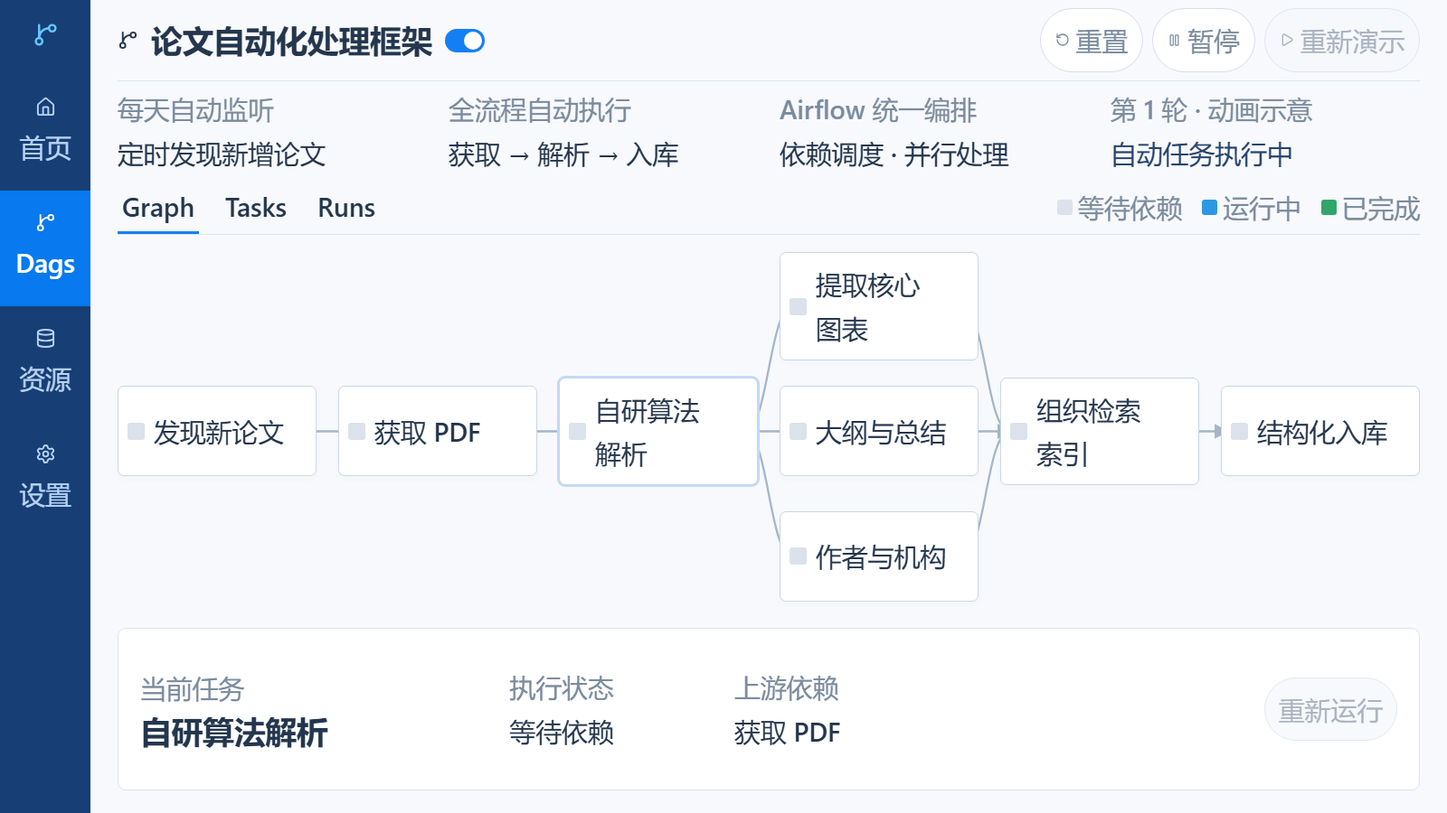
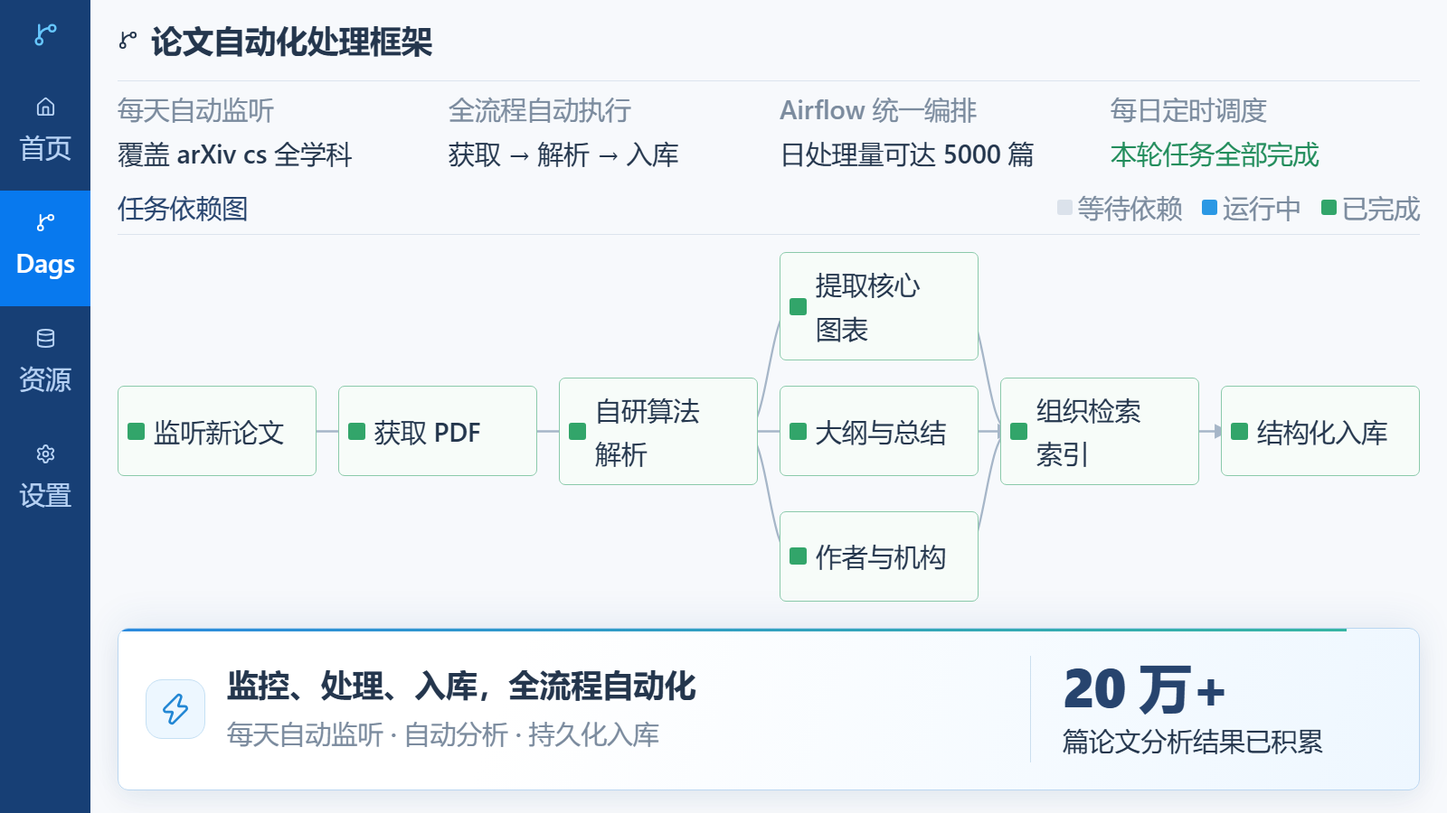
261031

diff --git a/modules/Research-Foundation/pages/AirflowControlPage/AirflowControlPage.tsx b/modules/Research-Foundation/pages/AirflowControlPage/AirflowControlPage.tsx
@@ -1,10 +1,10 @@
 import { useEffect, useState } from 'react';
-import { Check, Database, GitBranch, Home, Pause, Play, RotateCcw, Search, Settings } from 'lucide-react';
-import { Button, Typography } from '../../../shared/react';
+import { Database, GitBranch, Home, Settings, Zap } from 'lucide-react';
+import { Typography } from '../../../shared/react';
 import './AirflowControlPage.css';
 
 const tasks = [
-  {id:'check_arxiv',label:'发现新论文',deps:[],ticks:2,col:1,row:2},
+  {id:'check_arxiv',label:'监听新论文',deps:[],ticks:2,col:1,row:2},
   {id:'fetch_pdfs',label:'获取 PDF',deps:['check_arxiv'],ticks:2,col:2,row:2},
   {id:'parse_pdfs',label:'自研算法解析',deps:['fetch_pdfs'],ticks:3,col:3,row:2},
   {id:'extract_figures',label:'提取核心图表',deps:['parse_pdfs'],ticks:3,col:4,row:1},
@@ -17,10 +17,8 @@ type Status='queued'|'running'|'success';
 type TaskState={status:Status;tick:number};
 const initial=()=>Object.fromEntries(tasks.map(t=>[t.id,{status:'queued' as Status,tick:0}]));
 const statusText={queued:'等待依赖',running:'运行中',success:'已完成'};
-export function AirflowControlPage(){
- const [states,setStates]=useState<Record<string,TaskState>>(initial),[running,setRunning]=useState(true),[started,setStarted]=useState(true);
- const [selected,setSelected]=useState('parse_pdfs'),[tab,setTab]=useState('Graph'),[scheduled,setScheduled]=useState(true);
- const [cycle,setCycle]=useState(1);
+export function AirflowControlPage({onComplete}:{onComplete?:()=>void}){
+ const [states,setStates]=useState<Record<string,TaskState>>(initial),[running,setRunning]=useState(false),[started,setStarted]=useState(false),[showBanner,setShowBanner]=useState(false);
  useEffect(()=>{
   if(!running)return;
   const timer=window.setInterval(()=>{
@@ -29,43 +27,32 @@ export function AirflowControlPage(){
     const next={...previous};
     for(const task of tasks){
      const current=previous[task.id];
-     if(current.status==='running'){const tick=current.tick+1;next[task.id]={tick,status:tick>=task.ticks?'success':'running'};}
+     if(current.status==='running'){const tick=current.tick+1;next[task.id]={tick,status:tick>=task.ticks?'success':'running'}}
      else if(current.status==='queued'&&task.deps.every(id=>previous[id].status==='success'))next[task.id]={tick:0,status:'running'};
     }
     return next;
    });
-  },350);
+  },120);
   return()=>clearInterval(timer);
  },[running]);
  const finished=tasks.every(t=>states[t.id].status==='success');
- useEffect(()=>{
-  if(!finished)return;
-  setRunning(false);
-  if(!scheduled)return;
-  const nextCycle=window.setTimeout(()=>{setCycle(n=>n+1);setStates(initial());setStarted(true);setRunning(true)},3500);
-  return()=>clearTimeout(nextCycle);
- },[finished,scheduled]);
- function trigger(){setStates(initial());setStarted(true);setRunning(true)}
- function clear(){setRunning(false);setStarted(false);setStates(initial())}
- function rerun(){
-  const affected=new Set([selected]);
-  for(const task of tasks)if(task.deps.some(id=>affected.has(id)))affected.add(task.id);
-  setStates(previous=>Object.fromEntries(tasks.map(t=>[t.id,affected.has(t.id)?{status:'queued',tick:0}:previous[t.id]])));
-  setStarted(true);setRunning(true);
+ useEffect(()=>{if(finished)setRunning(false)},[finished]);
+ function advance(){
+  if(running)return;
+  if(!started){setStarted(true);setRunning(true)}
+  else if(finished&&!showBanner)setShowBanner(true);
+  else if(showBanner)onComplete?.();
  }
- const current=tasks.find(t=>t.id===selected)!;
- return <div className="rf-page rf-airflow-control" data-running={running}>
+ const current=tasks.find(t=>states[t.id].status==='running')??(finished?tasks[tasks.length-1]:tasks[0]);
+ return <div className={`rf-page rf-airflow-control rfc-recording ${showBanner?'has-banner':''}`} data-running={running} data-phase={showBanner?'banner':finished?'complete':running?'running':'ready'} onClick={event=>{if(event.button===0){event.stopPropagation();advance()}}} aria-label="左键逐步播放自动化处理流程和累计成果">
   <aside className="rfc-sidebar"><div className="rfc-logo"><GitBranch size={29}/></div>{[[Home,'首页'],[GitBranch,'Dags'],[Database,'资源'],[Settings,'设置']].map(([Icon,label])=>{const I=Icon as typeof Home;return <div className={label==='Dags'?'active':''} key={String(label)}><I size={23}/><Typography variant="body" tone="inherit">{String(label)}</Typography></div>})}</aside>
-  <aside className="rfc-history"><Typography variant="body" tone="muted">DAG</Typography><Typography variant="body">master_daily_pipeline</Typography><div className="rfc-history-bars">{[42,60,37,72,58,85,62,75].map((h,i)=><i key={i} style={{height:h}}/>)}</div><div className="rfc-task-list">{tasks.map(task=><button className={selected===task.id?'selected':''} key={task.id} onClick={()=>setSelected(task.id)} aria-label={`查看任务 ${task.label}`}><Typography variant="body">{task.id}</Typography><span className={`rfc-state ${states[task.id].status}`}>{states[task.id].status==='success'?<Check size={12}/>:null}</span></button>)}</div><Typography className="rfc-local-note" variant="body" tone="muted">本地流程模拟</Typography></aside>
-  <main className="rfc-main"><header className="rfc-header"><GitBranch size={23}/><Typography variant="h3">论文自动化处理框架</Typography><button className={`rfc-toggle ${scheduled?'enabled':''}`} aria-label="切换每日调度" aria-pressed={scheduled} onClick={()=>setScheduled(!scheduled)}><i/></button><div className="rfc-actions"><Button onClick={clear} aria-label="清空运行状态"><RotateCcw size={16}/> 重置</Button>{started&&!finished&&<Button onClick={()=>setRunning(!running)} aria-label={running?'暂停任务运行':'继续任务运行'}>{running?<Pause size={15}/>:<Play size={15}/>} {running?'暂停':'继续'}</Button>}<Button variant="primary" disabled={running} onClick={trigger} aria-label="触发流程运行"><Play size={16}/> 重新演示</Button></div></header>
-   <div className="rfc-meta"><div><Typography variant="body" tone="muted">每天自动监听</Typography><Typography variant="body">定时发现新增论文</Typography></div><div><Typography variant="body" tone="muted">全流程自动执行</Typography><Typography variant="body">获取 → 解析 → 入库</Typography></div><div><Typography variant="body" tone="muted">Airflow 统一编排</Typography><Typography variant="body">依赖调度 · 并行处理</Typography></div><div><Typography variant="body" tone="muted">第 {cycle} 轮 · 动画示意</Typography><Typography variant="body" tone={finished?'success':'accent'}>{finished?'本轮完成，等待下次调度':running?'自动任务执行中':started?'已暂停':'等待启动'}</Typography></div></div>
-   <nav className="rfc-tabs">{['Graph','Tasks','Runs'].map(t=><button key={t} className={tab===t?'active':''} onClick={()=>setTab(t)}><Typography variant="body">{t}</Typography></button>)}<div className="rfc-legend">{(['queued','running','success'] as const).map(s=><span key={s}><i className={`rfc-state ${s}`}/><Typography variant="body" tone="muted">{statusText[s]}</Typography></span>)}</div></nav>
-   {tab==='Graph'?<div className="rfc-graph"><svg viewBox="0 0 1080 300" preserveAspectRatio="none" aria-hidden="true"><defs><marker id="rfc-arrow" markerWidth="7" markerHeight="7" refX="6" refY="3.5" orient="auto"><path d="M0 0 L7 3.5 L0 7" fill="#a6b6c8"/></marker></defs>{[[160,150,200,150],[340,150,380,150],[520,150,560,50],[520,150,560,150],[520,150,560,250],[700,50,740,150],[700,150,740,150],[700,250,740,150],[880,150,920,150]].map(([x1,y1,x2,y2],i)=><path key={i} d={`M${x1} ${y1} C${(x1+x2)/2} ${y1},${(x1+x2)/2} ${y2},${x2} ${y2}`} markerEnd="url(#rfc-arrow)"/>)}</svg>{tasks.map(task=><button key={task.id} className={`rfc-node ${states[task.id].status} ${selected===task.id?'selected':''}`} style={{gridColumn:task.col,gridRow:task.row}} onClick={()=>setSelected(task.id)} aria-label={`选择节点 ${task.label}`}><span className={`rfc-state ${states[task.id].status}`}/><Typography variant="body">{task.label}</Typography></button>)}</div>:tab==='Tasks'?<div className="rfc-table">{tasks.map(task=><button key={task.id} onClick={()=>setSelected(task.id)}><Typography variant="body">{task.id}</Typography><Typography variant="body">{task.label}</Typography><Typography variant="body">{statusText[states[task.id].status]}</Typography></button>)}</div>:<div className="rfc-runs"><Typography variant="h3">{started?'每日自动调度任务':'等待自动调度'}</Typography><Typography variant="body">{finished?'本次任务已全部完成':running?'任务按依赖顺序执行':started?'本次运行已暂停':'自动监听新增论文并启动流水线'}</Typography></div>}
-   <section className="rfc-details"><div><Typography variant="body" tone="muted">当前任务</Typography><Typography variant="h3">{current.label}</Typography></div><div><Typography variant="body" tone="muted">执行状态</Typography><Typography variant="body">{statusText[states[selected].status]}</Typography></div><div><Typography variant="body" tone="muted">上游依赖</Typography><Typography variant="body">{current.deps.length>1?current.deps.length+' 个上游任务':current.deps.length?tasks.find(task=>task.id===current.deps[0])!.label:'无上游依赖'}</Typography></div><Button onClick={rerun} disabled={running||!started} aria-label="重新运行所选任务">重新运行</Button></section>
+  <main className="rfc-main"><header className="rfc-header"><GitBranch size={23}/><Typography variant="h3">论文自动化处理框架</Typography></header>
+   <div className="rfc-meta"><div><Typography variant="body" tone="muted">每天自动监听</Typography><Typography variant="body">覆盖 arXiv cs 全学科</Typography></div><div><Typography variant="body" tone="muted">全流程自动执行</Typography><Typography variant="body">获取 → 解析 → 入库</Typography></div><div><Typography variant="body" tone="muted">Airflow 统一编排</Typography><Typography variant="body">日处理量可达 5000 篇</Typography></div><div><Typography variant="body" tone="muted">每日定时调度</Typography><Typography variant="body" tone={finished?'success':'accent'}>{finished?'本轮任务全部完成':running?'自动任务执行中':'持续监控新增论文'}</Typography></div></div>
+   <div className="rfc-tabs"><Typography variant="body" tone="accent">任务依赖图</Typography><div className="rfc-legend">{(['queued','running','success'] as const).map(s=><span key={s}><i className={`rfc-state ${s}`}/><Typography variant="body" tone="muted">{statusText[s]}</Typography></span>)}</div></div>
+   <div className="rfc-graph"><svg viewBox="0 0 1080 300" preserveAspectRatio="none" aria-hidden="true"><defs><marker id="rfc-arrow" markerWidth="7" markerHeight="7" refX="6" refY="3.5" orient="auto"><path d="M0 0 L7 3.5 L0 7" fill="#a6b6c8"/></marker></defs>{[[160,150,200,150],[340,150,380,150],[520,150,560,50],[520,150,560,150],[520,150,560,250],[700,50,740,150],[700,150,740,150],[700,250,740,150],[880,150,920,150]].map(([x1,y1,x2,y2],i)=><path key={i} d={`M${x1} ${y1} C${(x1+x2)/2} ${y1},${(x1+x2)/2} ${y2},${x2} ${y2}`} markerEnd="url(#rfc-arrow)"/>)}</svg>{tasks.map(task=><div key={task.id} className={`rfc-node ${states[task.id].status}`} style={{gridColumn:task.col,gridRow:task.row}}><span className={`rfc-state ${states[task.id].status}`}/><Typography variant="body">{task.label}</Typography></div>)}</div>
+   <section className="rfc-details"><div><Typography variant="body" tone="muted">当前任务</Typography><Typography variant="h3">{current.label}</Typography></div><div><Typography variant="body" tone="muted">执行状态</Typography><Typography variant="body">{statusText[states[current.id].status]}</Typography></div><div><Typography variant="body" tone="muted">上游依赖</Typography><Typography variant="body">{current.deps.length>1?current.deps.length+' 个上游任务':current.deps.length?tasks.find(task=>task.id===current.deps[0])!.label:'无上游依赖'}</Typography></div></section>
   </main>
+  {showBanner&&<aside className="rfc-completion-banner" role="status" aria-label="自动化流程与累计成果"><div className="rfc-banner-message"><div className="rfc-banner-symbol"><Zap size={38} strokeWidth={1.7}/></div><div><Typography variant="h3">监控、处理、入库，全流程自动化</Typography><Typography variant="body" tone="muted">每天自动监听 · 自动分析 · 持久化入库</Typography></div></div><div className="rfc-banner-result"><Typography variant="display" tone="accent">20 万+</Typography><Typography variant="body">篇论文分析结果已积累</Typography></div></aside>}
  </div>;
 }
-
-
-
 

diff --git a/modules/Research-Foundation/pages/ResearchMethodsPage/ResearchMethodsPage.tsx b/modules/Research-Foundation/pages/ResearchMethodsPage/ResearchMethodsPage.tsx
@@ -1,80 +1,65 @@
-import { useEffect, useRef, useState } from 'react';
-import { ArrowUpRight, ChevronLeft, ChevronRight, List, Pause, Play, RotateCcw, X } from 'lucide-react';
-import { Button, Typography, moduleAssetUrl } from '../../../shared/react';
+import { useEffect, useRef, useState, type CSSProperties } from 'react';
+import { Typography, moduleAssetUrl } from '../../../shared/react';
 import outline from '../../outlines.json';
-import papers from './papers.json';
+import sourcePapers from './papers.json';
 import './ResearchMethodsPage.css';
 
-const DURATION = 11000;
+const venues: Record<string,string> = {
+ 'AAAI':'AAAI Conference on Artificial Intelligence', 'ICLR':'International Conference on Learning Representations',
+ 'NeurIPS':'Conference on Neural Information Processing Systems', 'IJCV':'International Journal of Computer Vision',
+ 'CVPR':'IEEE/CVF Conference on Computer Vision and Pattern Recognition', 'IEEE TPAMI':'IEEE Transactions on Pattern Analysis and Machine Intelligence',
+ 'ICCV · Spotlight':'IEEE International Conference on Computer Vision · Spotlight', 'IJCAI':'International Joint Conference on Artificial Intelligence',
+ 'Computational Visual Media':'Computational Visual Media',
+};
+const order=['naip','naipv2','tempsamp','realign','tokens','gmm','res2net','attention','segnext','smeasure','emeasure','mstcn'];
+const papers=order.map(id=>sourcePapers.find(paper=>paper.id===id)!);
+const INTERVAL=2500, TURN=700;
+const wrap=(n:number)=>((n%papers.length)+papers.length)%papers.length;
+const smooth=(t:number)=>t*t*(3-2*t);
+function PaperImage({paper}:{paper:typeof papers[number]}) {
+ return paper.id==='tokens'?<div className="rf-wheel-specimen"><Typography variant="bodySmall">International Journal of Computer Vision</Typography><Typography variant="h2">{paper.title}</Typography><Typography variant="bodySmall">2026 · 持续学习</Typography></div>:<img draggable={false} src={moduleAssetUrl(outline.moduleIdentity.id,`research-papers/${paper.id}.png`)} alt={`${paper.name} 论文原稿首页`}/>;
+}
 export function ResearchMethodsPage() {
- const root = useRef<HTMLElement>(null);
- const [index,setIndex] = useState(0), [playing,setPlaying] = useState(true), [directory,setDirectory] = useState(false);
- const [available,setAvailable] = useState(false), [reduced,setReduced] = useState(false), [progress,setProgress] = useState(0);
- const elapsed = useRef(0), frame = useRef(0);
- const paper = papers[index];
- useEffect(() => {
-  const node = root.current; if (!node) return;
-  let intersecting = false;
-  const update = () => setAvailable(intersecting && !document.hidden);
-  const observer = new IntersectionObserver(([entry]) => {intersecting=entry.isIntersecting;update();});
-  observer.observe(node); document.addEventListener('visibilitychange',update);
-  const media = matchMedia('(prefers-reduced-motion: reduce)');
-  const motion = () => {setReduced(media.matches); if(media.matches)setPlaying(false);}; motion(); media.addEventListener('change',motion);
-  return () => {observer.disconnect();document.removeEventListener('visibilitychange',update);media.removeEventListener('change',motion);};
+ const root=useRef<HTMLElement>(null),elapsed=useRef(0);
+ const [phase,setPhase]=useState(0),[available,setAvailable]=useState(false),[reduced,setReduced]=useState(false);
+ const active=wrap(Math.round(phase)),paper=papers[active];
+ useEffect(()=>{
+  const element=root.current;if(!element)return;
+  let intersecting=false;
+  const visible=()=>setAvailable(intersecting&&!document.hidden);
+  const observer=new IntersectionObserver(([entry])=>{intersecting=entry.isIntersecting;visible();});observer.observe(element);
+  document.addEventListener('visibilitychange',visible);
+  const media=matchMedia('(prefers-reduced-motion: reduce)');
+  const motion=()=>setReduced(media.matches);motion();media.addEventListener('change',motion);
+  return()=>{observer.disconnect();document.removeEventListener('visibilitychange',visible);media.removeEventListener('change',motion);};
  },[]);
- useEffect(() => {
-  if(!playing || !available || directory)return;
-  let last = performance.now();
-  const tick = (now:number) => {
-   elapsed.current += Math.min(now-last,100); last=now;
-   if(elapsed.current >= DURATION){elapsed.current=0;setProgress(0);setIndex(i=>(i+1)%papers.length);}
-   else setProgress(elapsed.current/DURATION);
-   frame.current=requestAnimationFrame(tick);
+ useEffect(()=>{
+  if(!available)return;
+  let frame=0,last=performance.now();
+  const tick=(now:number)=>{
+   elapsed.current+=Math.max(0,Math.min(now-last,100));
+   const slot=Math.floor(elapsed.current/INTERVAL),local=elapsed.current%INTERVAL;
+   const progress=Math.max(0,(local-(INTERVAL-TURN))/TURN);
+   setPhase(wrap(slot+(reduced?(progress>=.5?1:0):smooth(progress))));
+   last=now;frame=requestAnimationFrame(tick);
   };
-  frame.current=requestAnimationFrame(tick);
-  return () => cancelAnimationFrame(frame.current);
- },[playing,available,directory]);
- function go(next:number){elapsed.current=0;setProgress(0);setIndex((next+papers.length)%papers.length);}
- function choose(next:number){go(next);setDirectory(false);setPlaying(false);}
- return <section ref={root} className="rf-page rf-cinema" aria-label="研究基础二：代表性论文循环介绍" data-paper-id={paper.id} data-paper-index={index} data-playing={playing} data-reduced-motion={reduced}>
-  <header className="rf-cinema-header">
-   <Typography variant="bodySmall" className="rf-cinema-eyebrow"><span/>研究基础二 <span className="rf-cinema-header-sep">/</span> 代表性科研成果</Typography>
-   <Typography variant="bodySmall" tone="muted">程明明团队 · 南开大学</Typography>
-  </header>
-  <main className="rf-cinema-stage" key={paper.id} aria-live={playing?'off':'polite'}>
-   <div className="rf-cinema-copy">
-    <Typography variant="h1" className="rf-cinema-area">{paper.area}</Typography>
-    <Typography as="h2" variant="display" className={'rf-cinema-name'+(paper.name.length>16?' is-long':'')}><strong>{paper.name}</strong></Typography>
-    <Typography variant="h2" className="rf-cinema-topic">{paper.topic}</Typography>
-    <Typography variant="body" className="rf-cinema-intro">{paper.intro}</Typography>
-    <Typography variant="bodySmall" tone="muted" className="rf-cinema-detail">{paper.detail}</Typography>
-    <div className="rf-cinema-evidence">
-     <Typography variant="h2" className="rf-cinema-venue"><strong>{paper.venue}</strong><span>{paper.year}</span></Typography>
-     {paper.citations!==null ? <div className="rf-cinema-citations"><Typography variant="display"><strong>{paper.citations.toLocaleString('en-US')}{paper.id==='mstcn'?'*':''}</strong></Typography><Typography variant="bodySmall">次引用</Typography></div>:<Typography variant="bodySmall" tone="muted">{paper.area} · 代表性研究</Typography>}
-    </div>
-    <a href={paper.url} target="_blank" rel="noreferrer" className="rf-cinema-source"><Typography as="span" variant="bodySmall">阅读论文原文</Typography><ArrowUpRight size={20}/></a>
-   </div>
-   <figure className="rf-cinema-visual">
-    <div className="rf-cinema-paper">{paper.id==='tokens'?<div className="rf-cinema-abstract"><Typography variant="bodySmall">International Journal of Computer Vision · 2026</Typography><Typography variant="h1"><strong>Token Evolution</strong></Typography><Typography variant="h3">持续学习中的多模态表征演化</Typography><div>{['Token 演化','语义迁移','知识保留'].map(text=><Typography key={text} variant="body">{text}</Typography>)}</div><Typography variant="bodySmall" tone="muted">Xusheng Cao et al. · Ming-Ming Cheng</Typography></div>:<img src={moduleAssetUrl(outline.moduleIdentity.id,`research-papers/${paper.id}.png`)} alt={paper.title+'，论文原稿首页'} />}</div>
-    <figcaption><Typography variant="bodySmall" tone="muted">{paper.title}</Typography></figcaption>
-   </figure>
-  </main>
-  <footer className="rf-cinema-footer" onKeyDown={event=>event.stopPropagation()}>
-   <div className="rf-cinema-timeline" aria-label="全部 12 篇论文">{papers.map((item,i)=><button key={item.id} onClick={()=>choose(i)} aria-label={`第 ${i+1} 篇：${item.name}`} aria-pressed={i===index} className={i===index?'is-current':''}><span style={{transform:`scaleX(${i===index?progress:i<index?1:0})`}}/><Typography as="span" variant="bodySmall">{String(i+1).padStart(2,'0')}</Typography></button>)}</div>
-   <div className="rf-cinema-footer-row">
-    <Typography variant="bodySmall" tone="muted">{String(index+1).padStart(2,'0')} / {papers.length} <span className="rf-cinema-source-note">{paper.citations!==null?'引用：用户提供的 Scholar 快照；* 保留原标记':'论文信息：作者主页与论文原稿'}</span></Typography>
-    <div className="rf-cinema-controls">
-     <Button onClick={()=>setDirectory(true)} aria-label="全部论文目录"><List size={19}/><Typography as="span" variant="bodySmall">全部论文</Typography></Button>
-     <Button onClick={()=>{setPlaying(false);go(index-1);}} aria-label="上一篇论文"><ChevronLeft size={22}/></Button>
-     <Button variant="primary" onClick={()=>setPlaying(v=>!v)} aria-label={playing?'暂停轮播':'播放轮播'}>{playing?<Pause size={20}/>:<Play size={20}/>}</Button>
-     <Button onClick={()=>{setPlaying(false);go(index+1);}} aria-label="下一篇论文"><ChevronRight size={22}/></Button>
-     <Button onClick={()=>{go(0);setPlaying(false);}} aria-label="重置轮播"><RotateCcw size={18}/></Button>
-    </div>
-   </div>
-  </footer>
-  {directory&&<div className="rf-cinema-directory" role="dialog" aria-modal="true" aria-label="全部论文目录" onKeyDown={e=>{e.stopPropagation();if(e.key==='Escape')setDirectory(false);}}>
-   <header><Typography variant="h1">12 篇代表性研究</Typography><Button autoFocus onClick={()=>setDirectory(false)} aria-label="关闭论文目录"><X/></Button></header>
-   <div className="rf-cinema-directory-grid">{papers.map((item,i)=><button key={item.id} onClick={()=>choose(i)}><Typography variant="bodySmall" tone="muted">{String(i+1).padStart(2,'0')} · {item.area}</Typography><Typography variant="h3"><strong>{item.name}</strong></Typography><Typography variant="bodySmall">{item.topic}</Typography><Typography variant="bodySmall" className="rf-cinema-venue"><strong>{item.venue} · {item.year}</strong></Typography></button>)}</div>
-  </div>}
+  frame=requestAnimationFrame(tick);return()=>cancelAnimationFrame(frame);
+ },[available,reduced]);
+ return <section ref={root} className="rf-page rf-wheel" aria-label="连续研究积累：论文轮盘" data-paper-id={paper.id} data-paper-index={active} data-phase={phase.toFixed(3)} data-playing={available}>
+  <header className="rf-wheel-heading"><Typography as="h1" variant="h1">连续研究积累</Typography><Typography variant="bodySmall" tone="muted">知识评价 · 视频理解 · 图文对齐 · 持续适配</Typography></header>
+  <div className="rf-wheel-stage" aria-label="旋转论文轮盘">
+   {papers.map((item,i)=>{
+    const angle=(i-phase)*Math.PI*2/papers.length,depth=(Math.cos(angle)+1)/2;
+    const difference=Math.abs(wrap(i-phase+papers.length/2)-papers.length/2);
+    const focus=Math.max(0,1-difference/.85),isActive=i===active;
+    const scale=.28+.72*depth;
+    const style:CSSProperties={transform:`translate(-50%,-50%) translate(${Math.sin(angle)*330}px,${Math.cos(angle)*115}px) rotateY(${-Math.sin(angle)*14}deg) scale(${scale})`,zIndex:Math.round(depth*100),opacity:.13+depth*.16+focus*.71,filter:`blur(${(1-focus)*3}px)`};
+    return <article key={item.id} className={`rf-wheel-paper${isActive?' is-active':''}`} style={style} aria-hidden={!isActive} data-wheel-paper={item.id}>
+     <figure className="rf-wheel-image"><PaperImage paper={item}/></figure>
+     <div className="rf-wheel-copy"><Typography variant="bodySmall" className="rf-wheel-area">{item.topic}</Typography><Typography as="h2" variant="h2" className="rf-wheel-title">{item.title}</Typography><Typography variant="bodySmall" className="rf-wheel-publication">{venues[item.venue]??item.venue}</Typography><Typography variant="h3" className="rf-wheel-year"><strong>{item.venue} · {item.year}</strong></Typography></div>
+    </article>;
+   })}
+  </div>
+
  </section>;
 }

diff --git a/modules/Research-Foundation/pages/ResearchMethodsPage/ResearchMethodsPage.css b/modules/Research-Foundation/pages/ResearchMethodsPage/ResearchMethodsPage.css
@@ -1,51 +1,16 @@
-.rf-cinema{--cinema-red:#a91e37;position:relative;display:grid;grid-template-rows:44px minmax(0,1fr) 105px;padding:34px 58px 22px;background:#f7f5f1;color:#14222c;isolation:isolate;--ui-type-body-small-size:20px;--ui-type-body-size:29px;--ui-type-h1-size:61px;--ui-type-h2-size:34px;--ui-type-display-size:86px;--ui-type-display-line-height:1.04;}
-.rf-cinema-header{display:flex;align-items:center;justify-content:space-between;gap:30px;}
-.rf-cinema-eyebrow{display:flex;align-items:center;gap:18px;letter-spacing:.05em;}
-.rf-cinema-eyebrow>span:first-child{width:52px;height:4px;background:var(--cinema-red);}
-.rf-cinema-header-sep{color:#b6b5b3;}
-.rf-cinema-stage{display:grid;grid-template-columns:minmax(0,1.1fr) minmax(0,1fr);gap:48px;min-width:0;min-height:0;padding-top:34px;}
-.rf-cinema-copy{display:flex;flex-direction:column;align-items:flex-start;min-width:0;min-height:0;padding:10px 0 16px;animation:rf-cinema-copy-in .7s ease both;}
-.rf-cinema-area{--ui-type-h1-size:52px;letter-spacing:.025em;margin-bottom:12px;}
-.rf-cinema-name{letter-spacing:-.045em;max-width:100%;margin-bottom:20px;overflow-wrap:anywhere;}
-.rf-cinema-name strong{color:var(--cinema-red);}
-.rf-cinema-name.is-long{--ui-type-display-size:66px;}
-.rf-cinema-topic{--ui-type-h2-size:32px;margin-bottom:12px;}
-.rf-cinema-intro{max-width:650px;margin-bottom:15px;}
-.rf-cinema-detail{max-width:610px;--ui-type-body-small-size:23px;--ui-type-body-small-line-height:1.65;}
-.rf-cinema-evidence{display:flex;flex-direction:column;gap:10px;margin-top:auto;padding-top:22px;}
-.rf-cinema-venue{color:var(--cinema-red);--ui-type-h2-size:31px;}
-.rf-cinema-venue>span{margin-left:18px;color:#14222c;}
-.rf-cinema-citations{display:flex;align-items:baseline;gap:15px;}
-.rf-cinema-citations .ui-typography--display{--ui-type-display-size:66px;color:var(--cinema-red);font-variant-numeric:tabular-nums;}
-.rf-cinema-source{display:inline-flex;align-items:center;gap:8px;color:#63717c;margin-top:12px;text-decoration:none;}
-.rf-cinema-source:hover{color:var(--cinema-red);}
-.rf-cinema-visual{min-width:0;min-height:0;margin:0;display:grid;grid-template-rows:minmax(0,1fr) auto;gap:12px;padding:0 18px 18px;}
-.rf-cinema-paper{min-height:0;min-width:0;display:flex;align-items:center;justify-content:center;position:relative;}
-.rf-cinema-paper img{display:block;height:100%;width:auto;max-width:100%;object-fit:contain;box-shadow:0 14px 32px #25334224;border:8px solid white;transform:rotate(1.4deg);animation:rf-cinema-paper-in .9s cubic-bezier(.2,.7,.2,1) both;}
-.rf-cinema-visual figcaption{text-align:center;min-width:0;--ui-type-body-small-size:17px;--ui-type-body-small-line-height:1.3;}
-.rf-cinema-footer{display:flex;flex-direction:column;gap:12px;min-width:0;}
-.rf-cinema-timeline{display:grid;grid-template-columns:repeat(12,minmax(0,1fr));gap:10px;}
-.rf-cinema-timeline button{position:relative;background:none;border:0;border-top:3px solid #dcdad7;padding:7px 4px 0;min-width:0;text-align:left;color:#929391;}
-.rf-cinema-timeline button>span:first-child{position:absolute;top:-3px;left:0;width:100%;height:3px;background:var(--cinema-red);transform-origin:left;}
-.rf-cinema-timeline .ui-typography{--ui-type-body-small-size:15px;}
-.rf-cinema-timeline button.is-current{color:var(--cinema-red);border-top-color:#c9a2aa;}
-.rf-cinema-footer-row{display:flex;align-items:center;justify-content:space-between;gap:20px;}
-.rf-cinema-source-note{margin-left:22px;--ui-type-body-small-size:16px;}
-.rf-cinema-controls{display:flex;align-items:center;gap:8px;}
-.rf-cinema-controls .edu-btn{border-radius:50%;min-height:38px;min-width:38px;padding:7px;background:transparent;border-color:#d5d3d0;}
-.rf-cinema-controls .edu-btn:first-child{border:0;border-radius:0;margin-right:15px;}
-.rf-cinema-controls .edu-btn>span{display:flex;align-items:center;gap:8px;}
-.rf-cinema-controls .edu-btn--primary{background:var(--cinema-red);border-color:var(--cinema-red);color:white;}
-.rf-cinema-directory{position:absolute;inset:0;background:#f7f5f1;z-index:4;padding:42px 58px;display:grid;grid-template-rows:64px minmax(0,1fr);gap:24px;}
-.rf-cinema-directory>header{display:flex;align-items:center;justify-content:space-between;}
-.rf-cinema-directory>header .ui-typography{--ui-type-h1-size:43px;}
-.rf-cinema-directory-grid{display:grid;grid-template-columns:repeat(3,minmax(0,1fr));grid-template-rows:repeat(4,minmax(0,1fr));gap:16px 30px;min-height:0;}
-.rf-cinema-directory-grid>button{display:flex;flex-direction:column;justify-content:center;gap:6px;border:0;border-top:1px solid #d8d3cf;background:transparent;text-align:left;min-width:0;padding:10px 8px;color:#14222c;}
-.rf-cinema-directory-grid>button:hover{background:#ede7df;}
-.rf-cinema-directory-grid .ui-typography--h3{--ui-type-h3-size:27px;--ui-type-h3-line-height:1.2;}
-.rf-cinema-directory-grid .ui-typography--bodySmall{--ui-type-body-small-size:18px;}
-@keyframes rf-cinema-copy-in{from{opacity:0;transform:translateY(22px);}to{opacity:1;transform:none;}}
-@keyframes rf-cinema-paper-in{from{opacity:0;transform:translate(35px,12px) rotate(4deg);}to{opacity:1;transform:translate(0) rotate(1.4deg);}}
-@media(prefers-reduced-motion:reduce){.rf-cinema *{animation:none!important;transition:none!important;}}
-
-.rf-cinema-abstract{width:480px;max-width:100%;align-self:stretch;display:flex;flex-direction:column;justify-content:center;gap:30px;padding:42px;background:#fff;border-top:6px solid var(--cinema-red);box-shadow:0 14px 32px #25334216;}.rf-cinema-abstract .ui-typography--h1{--ui-type-h1-size:48px;}.rf-cinema-abstract>div{display:grid;gap:16px;border-left:3px solid var(--cinema-red);padding-left:22px;}
+.rf-wheel{position:relative;display:grid;grid-template-rows:88px minmax(0,1fr);padding:36px 56px 24px;background:#fff;color:#24272b;isolation:isolate;--ui-type-h1-size:45px;--ui-type-h1-line-height:1.2;--ui-type-h2-size:32px;--ui-type-h2-line-height:1.35;--ui-type-body-small-size:22px;--ui-type-body-small-line-height:1.45;--ui-type-h3-size:27px;}
+.rf-wheel-heading{position:relative;z-index:120;pointer-events:none;display:flex;flex-direction:column;gap:8px;align-items:flex-start;}
+.rf-wheel-heading>.ui-typography--bodySmall{--ui-type-body-small-size:21px;}
+.rf-wheel-stage{position:relative;min-width:0;min-height:0;perspective:1800px;}
+.rf-wheel-paper{position:absolute;left:50%;top:38%;width:1100px;height:580px;display:grid;grid-template-columns:300px minmax(0,1fr);gap:40px;align-items:center;padding:36px 40px;background:#fff;border:1px solid #e5e8eb;border-radius:7px;box-shadow:0 10px 32px #23384d12;transform-origin:center;will-change:transform,filter,opacity;}
+.rf-wheel-image{margin:0;width:100%;height:460px;display:flex;align-items:center;justify-content:center;min-width:0;min-height:0;}
+.rf-wheel-image>img{width:100%;height:100%;object-fit:contain;display:block;max-width:100%;}
+.rf-wheel-copy{min-width:0;display:flex;flex-direction:column;align-items:flex-start;gap:14px;}
+.rf-wheel-area{color:#31699f;--ui-type-body-small-size:21px;}
+.rf-wheel-title{--ui-type-h2-size:36px;--ui-type-h2-line-height:1.3;letter-spacing:-.015em;overflow-wrap:normal;}
+.rf-wheel-publication{color:#737c86;--ui-type-body-small-size:24px;--ui-type-body-small-line-height:1.4;}
+.rf-wheel-year{color:#285f94;--ui-type-h3-size:29px;--ui-type-h3-line-height:1.35;}
+.rf-wheel-specimen{width:100%;height:100%;padding:22px 16px;display:flex;flex-direction:column;justify-content:center;gap:28px;border-top:2px solid #8998aa;background:#fcfcfc;}
+.rf-wheel-specimen>.ui-typography--h2{--ui-type-h2-size:24px;--ui-type-h2-line-height:1.4;}
+.rf-wheel-specimen>.ui-typography--bodySmall{--ui-type-body-small-size:14px;}
+@media(prefers-reduced-motion:reduce){.rf-wheel-paper{will-change:auto;}}

diff --git a/modules/Research-Foundation/pages/AirflowControlPage/AirflowControlPage.css b/modules/Research-Foundation/pages/AirflowControlPage/AirflowControlPage.css
@@ -10,3 +10,7 @@
 .rf-airflow-control{grid-template-columns:100px minmax(0,1fr)}.rfc-history{display:none}.rfc-main{grid-template-rows:100px 120px 70px minmax(0,1fr) 200px;padding:0 30px 25px}.rfc-sidebar>div{padding:24px 0}.rfc-header{gap:14px}.rfc-actions .edu-btn{font-size:var(--ui-type-body-size);padding:10px 16px;min-height:50px}.rfc-toggle{width:44px;height:26px}.rfc-toggle i{width:20px;height:20px}.rfc-toggle.enabled i{transform:translateX(18px)}.rfc-meta{gap:24px}.rfc-meta>div{gap:0}.rfc-tabs{gap:24px}.rfc-legend{gap:22px}.rfc-state{width:19px;height:19px}.rfc-graph{gap:0 24px;padding:20px 0}.rfc-graph>svg{top:20px;height:calc(100% - 40px)}.rfc-node{grid-template-columns:19px minmax(0,1fr);gap:10px;padding:16px 10px;min-height:105px}.rfc-node>p:last-child{grid-column:2}.rfc-details{grid-template-columns:1.1fr .65fr minmax(0,1.6fr) auto;padding:18px 24px;gap:18px}.rfc-details>div{gap:0}.rfc-details .edu-btn{font-size:var(--ui-type-body-size)}.rfc-table>button{padding:2px 14px}.rfc-legend .rfc-state{width:17px;height:17px}
 .rf-airflow-control{grid-template-rows:minmax(0,1fr)}.rfc-main{min-height:0;grid-template-rows:90px 110px 60px minmax(0,1fr) 180px}.rfc-node{padding:10px;min-height:100px}.rfc-graph{padding:10px 0}.rfc-graph>svg{top:10px;height:calc(100% - 20px)}
 .rfc-table{gap:0;min-height:0}.rfc-table>button{padding:0 14px}
+.rf-airflow-control{position:relative}.rf-airflow-control[data-running=true] .rfc-graph>svg>path{stroke:#54a9e8;stroke-width:2.3;stroke-dasharray:7 6;animation:rfc-flow .45s linear infinite}.rfc-node{transition:background .12s,border-color .12s,box-shadow .12s,transform .12s}.rfc-node.running{box-shadow:0 0 0 3px #3c9de728,0 8px 24px #318ee322;transform:translateY(-3px)}.rfc-node.success{animation:rfc-node-done .28s ease both}.rfc-node.running>.rfc-state{box-shadow:0 0 10px #3c9de780;animation:rfc-pulse .35s ease-in-out infinite}
+.rfc-completion-banner{position:absolute;z-index:5;left:130px;right:30px;bottom:25px;height:180px;display:grid;grid-template-columns:minmax(0,1fr) 400px;align-items:center;gap:25px;padding:22px 30px;background:linear-gradient(110deg,#fff 30%,#eef7ff);border:1px solid #bad6f0;border-radius:12px;box-shadow:0 -8px 40px #2d629216,0 12px 30px #214a7710;animation:rfc-banner-arrive .65s cubic-bezier(.18,.8,.2,1) both;overflow:hidden}.rfc-completion-banner::before{content:'';position:absolute;top:0;left:0;right:0;height:3px;background:linear-gradient(90deg,#2b8ade,#36b5a3);transform-origin:left;animation:rfc-banner-rule .8s .25s both}.rfc-banner-message{display:flex;align-items:center;gap:24px;min-width:0}.rfc-banner-message>div:last-child{min-width:0;display:grid;gap:7px}.rfc-banner-symbol{width:66px;height:66px;flex-shrink:0;display:grid;place-items:center;border:1px solid #c5e0f4;border-radius:18px;color:#2387d4;background:#edf7ff}.rfc-banner-result{border-left:1px solid #cbdfee;padding-left:35px;display:grid;gap:4px}.rfc-banner-result>p{white-space:nowrap}.has-banner .rfc-details{visibility:hidden}
+@keyframes rfc-flow{to{stroke-dashoffset:-26}}@keyframes rfc-node-done{0%{box-shadow:0 0 0 5px #36ad7135}100%{box-shadow:0 0 0 0 #36ad7100}}@keyframes rfc-banner-arrive{from{opacity:0;transform:translateY(40px) scale(.985)}to{opacity:1;transform:none}}@keyframes rfc-banner-rule{from{transform:scaleX(0)}to{transform:scaleX(1)}}@media(prefers-reduced-motion:reduce){.rfc-completion-banner,.rfc-completion-banner::before,.rfc-node,.rf-airflow-control[data-running=true] .rfc-graph>svg>path{animation:none!important;transition:none!important}}
+.rfc-recording{user-select:none;cursor:default}.rfc-recording .rfc-node{cursor:default}.rfc-recording .rfc-details{grid-template-columns:1.1fr .7fr minmax(0,1.6fr)}

diff --git a/src/shuku/SiteHeader.tsx b/src/shuku/SiteHeader.tsx
@@ -3,7 +3,7 @@ import {api,type User} from './client';
 import {SessionControl,MessageIndicator,useUnreadMessageCount} from './SessionControl';
 import '../app/HomePage.css';
 import './shuku.css';
-import {isGuestMode} from './guest';
+import {isGuestMode,requestSignIn} from './guest';
 import {isLocalPreview,isPublicPreview} from '../app/runtimeMode';
 type Section='courses'|'saved'|'history'|'authoring'|'messages'|'profile'|'admin';
 function PersonalMenu({section,savedCount,onBrowse,accountId}:{section:Section;savedCount:number;onBrowse?:(section:'courses'|'saved')=>void;accountId?:string}){
@@ -43,6 +43,6 @@ export function SiteHeader({section,savedCount=0,onBrowse,user}:{section:Section
    </div>}
    {current?.role==='admin'&&<button className={section==='admin'?'is-active':''} onClick={()=>location.assign('/data')}>数据管理</button>}
   </nav>
-  {!isPublicPreview&&<span className="shuku-session"><a className="shuku-header-create" href="/my-courses?tab=create"><svg viewBox="0 0 24 24" fill="none" stroke="currentColor" strokeWidth="1.7" aria-hidden="true"><path d="m12 3 2.5 6.5L21 12l-6.5 2.5L12 21l-2.5-6.5L3 12l6.5-2.5L12 3Z"/></svg>创建课件</a></span>}
+  {!isPublicPreview&&<span className="shuku-session"><a className="shuku-header-create" href="/my-courses?tab=create"><svg viewBox="0 0 24 24" fill="none" stroke="currentColor" strokeWidth="1.7" aria-hidden="true"><path d="m12 3 2.5 6.5L21 12l-6.5 2.5L12 21l-2.5-6.5L3 12l6.5-2.5L12 3Z"/></svg>创建课件</a>{isGuestMode()&&<button className="shuku-header-create" onClick={requestSignIn}>登录</button>}</span>}
  </header>{section==='courses'&&location.pathname==='/'&&<SessionControl user={current}/>}</>;
 }

diff --git a/src/shuku/guest.ts b/src/shuku/guest.ts
@@ -1,7 +1,9 @@
 // This flag controls the browsing UI only; it is never an authentication token.
 import {isLocalPreview,isPublicPreview} from '../app/runtimeMode';
-const key='shuku:guest';
-let memory=false;
-export function isGuestMode(){try{return sessionStorage.getItem(key)==='1'||memory;}catch{return memory;}}
-export function setGuestMode(value:boolean){memory=value;try{if(value)sessionStorage.setItem(key,'1');else sessionStorage.removeItem(key);}catch{/* Browsing still works without storage. */}}
-export function requestSignIn(){if(isPublicPreview)return;if(isLocalPreview){location.assign('http://localhost:5175'+location.pathname+location.search);return;}setGuestMode(false);window.dispatchEvent(new Event('shuku-login-requested'));}
+// Temporary guest-by-default preview. Set false to restore mandatory login.
+export const TEMPORARY_OPEN_PREVIEW = true;
+const key=TEMPORARY_OPEN_PREVIEW?'shuku:guest-preview:v1':'shuku:guest';
+let memory=TEMPORARY_OPEN_PREVIEW;
+export function isGuestMode(){try{const saved=sessionStorage.getItem(key);return saved===null?memory:saved==='1';}catch{return memory;}}
+export function setGuestMode(value:boolean){memory=value;try{if(value||TEMPORARY_OPEN_PREVIEW)sessionStorage.setItem(key,value?'1':'0');else sessionStorage.removeItem(key);}catch{/* Browsing still works without storage. */}}
+export function requestSignIn(){if(isPublicPreview)return;if(isLocalPreview){const url=new URL(location.pathname+location.search,'http://localhost:5175');url.searchParams.set('login','1');location.assign(url.href);return;}setGuestMode(false);window.dispatchEvent(new Event('shuku-login-requested'));}

diff --git a/src/shuku/client.ts b/src/shuku/client.ts
@@ -1,4 +1,4 @@
-import {isGuestMode,setGuestMode,requestSignIn} from './guest';
+import {isGuestMode,setGuestMode,requestSignIn,TEMPORARY_OPEN_PREVIEW} from './guest';
 import type { CreatorProject } from '../creator/model';
 export interface User { id:string; username:string; display_name:string; role:'learner'|'creator'|'admin' }
 export interface Course { id:string; owner_id?:string; title:string; description:string; module_id:string; category:string; head_revision:string|null; status:string; local_agent?:boolean; revision_state?:'building'|'ready'|'failed'|null; review_status?:string|null; review_note?:string|null; has_draft?:boolean; current_version?:string|null; workspace?:{target_course_id:string;base_release_id:string} }
@@ -22,5 +22,5 @@ export async function api<T>(path:string, body?:unknown,headers:Record<string,st
     const reason=typeof detail?.error==='string'?detail.error:typeof detail?.message==='string'?detail.message:!/^\s*</.test(text)&&text.trim()?text.trim().slice(0,2000):`服务返回 HTTP ${response.status}${response.statusText?' · '+response.statusText:''}，请求未能完成。`;
     throw new ApiError(reason,response.status);
   }
-  if(path==='/auth/login'||path==='/auth/phone-login'||path==='/auth/logout'||path==='/auth/guest'){sessionGeneration++;setGuestMode(path==='/auth/guest');}return data as T;
+  if(path==='/auth/login'||path==='/auth/phone-login'||path==='/auth/logout'||path==='/auth/guest'){sessionGeneration++;setGuestMode(path==='/auth/guest'||path==='/auth/logout'&&TEMPORARY_OPEN_PREVIEW);}return data as T;
 }

diff --git a/src/shuku/personal.ts b/src/shuku/personal.ts
@@ -31,8 +31,11 @@ export function useStudy(resource:string,version:string,resume:boolean,requested
   }
   async function load(){try{
    let c:StudyContext,s:StudyPosition|null=null;
+   if(isGuestMode()){c=await api<StudyContext>('/public/study/'+encodeURIComponent(resource)+'/'+encodeURIComponent(version));w.stopped=true;if(active)setGuest(true);}
+   else {
    try{const result=await api<{account_id:string;context:StudyContext;state:(StudyPosition&{state_version:number})|null}>('/personal/study/'+encodeURIComponent(resource)+'/'+encodeURIComponent(version));c=result.context;s=result.state;w.account=result.account_id;w.counter=result.state?.state_version||0;}
    catch(e){if(!(e instanceof ApiError)||e.status!==401)throw e;c=await api<StudyContext>('/public/study/'+encodeURIComponent(resource)+'/'+encodeURIComponent(version));w.stopped=true;if(active)setGuest(true);}
+   }
    if(resume&&s&&!c.pages.includes(s.page_id))throw Error('上次学习的页面已移除，请从课程首页重新开始。');
    if(active){setContext(c);setInitial({page_id:resume&&s?s.page_id:requestedPage&&c.pages.includes(requestedPage)?requestedPage:c.pages[0],mode:resume&&s?s.mode:requestedMode,completed:s?.completed.filter(p=>c.pages.includes(p))||[]});}
   }catch(e){if(active){setFailure(e);setError((e as Error).message);}}}

diff --git a/modules/Research-Foundation/ResearchFoundationPpt.tsx b/modules/Research-Foundation/ResearchFoundationPpt.tsx
@@ -26,6 +26,7 @@ const pages=[
  {id:'platform-foundation',Component:PlatformFoundationPage},
  {id:'education-case',Component:EducationCasePage},
 ];
-export const deck:DeckDefinition={id:outline.id,title:outline.title,subtitle:'研究基础 · 自动演示与交互',scenes:pages.map(({id,Component},i)=>({id,title:outline.pages[i].title,section:'研究基础',render:context=><Component {...(['pdf-structuring','main-figure-selection'].includes(id)?{onComplete:context.next}:{})}/>}))};
+export const deck:DeckDefinition={id:outline.id,title:outline.title,subtitle:'研究基础 · 自动演示与交互',scenes:pages.map(({id,Component},i)=>({id,title:outline.pages[i].title,section:'研究基础',render:context=><Component {...(['pdf-structuring','main-figure-selection','literature-service'].includes(id)?{onComplete:context.next}:{})}/>}))};
 export function getPptNotes(id:string):SpeakerNote[]{const i=pages.findIndex(page=>page.id===id);return i<0?[]:[{text:outline.pages[i].snippet,selectors:['.rf-page','.rf-paper-method-page','.rf-service-page']}];}
 export function ResearchFoundationPpt(){return <SceneDeck catalog={[deck]} moduleId={outline.id} assetId={outline.moduleIdentity.id} progressKey={`${outline.id}:ppt:v1`} getNotes={getPptNotes}/>;}
+

diff --git a/src/shuku/SessionControl.tsx b/src/shuku/SessionControl.tsx
@@ -1,12 +1,12 @@
 import { useEffect, useState } from 'react';
 import { api, type User } from './client';
-import {isGuestMode,requestSignIn} from './guest';
+import {isGuestMode,requestSignIn,TEMPORARY_OPEN_PREVIEW} from './guest';
 import {isLocalPreview,isPublicPreview} from '../app/runtimeMode';
 export function SessionControl({user:providedUser}:{user?:User|null}={}){
  const [user,setUser]=useState<User|null>(null);
  useEffect(()=>{if(isLocalPreview||providedUser!==undefined||isGuestMode())return;api<{user:User}>('/auth/me').then(r=>setUser(r.user)).catch(()=>{});},[providedUser]);
  const current=providedUser===undefined?user:providedUser;
- if(isPublicPreview)return null;
+ if(isPublicPreview||(TEMPORARY_OPEN_PREVIEW&&isGuestMode()))return null;
  const guest=isLocalPreview||isGuestMode();
  const name=guest?(isLocalPreview?'本地预览':'游客'):current?.display_name;
  if(!name)return null;

diff --git a/src/shuku/LoginGate.tsx b/src/shuku/LoginGate.tsx
@@ -22,6 +22,8 @@ export function LoginGate({children}:{children:ReactNode}){
   finally{if(request===generation.current)setChecking(false);}
  }
  useEffect(()=>{
+  const url=new URL(location.href);
+  if(url.searchParams.get('login')==='1'){setGuestMode(false);setGuest(false);url.searchParams.delete('login');history.replaceState(null,'',url);}
   void check(true);
   const expired=()=>{if(loggingIn.current)return;generation.current++;setUser(null);setChecking(false);setUnavailable(false);setError('登录已失效，请重新登录。');};
   const requested=()=>{generation.current++;setGuestMode(false);setGuest(false);setUser(null);setChecking(false);setUnavailable(false);setError('');};
